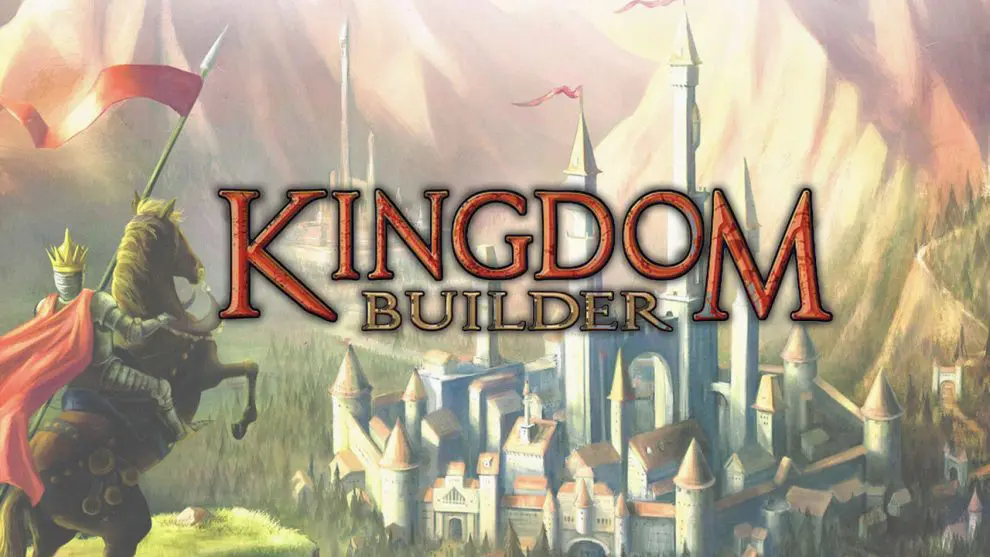
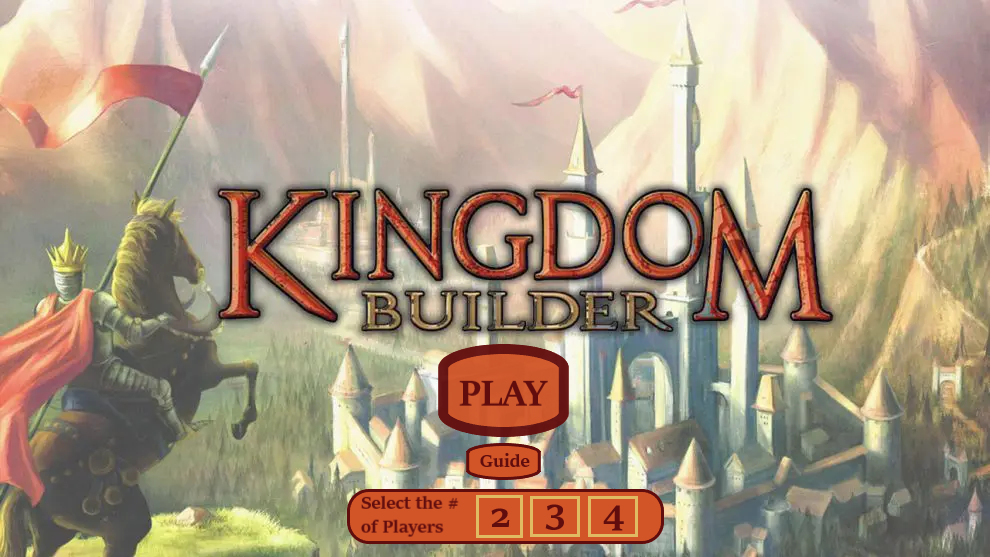
startpanel jbutton information

Changed region(s): [[0.3333, 0.6104, 0.697, 0.9767]]

diff --git a/src/KingdomBuilderPanel.java b/src/KingdomBuilderPanel.java
@@ -16,9 +16,9 @@ import java.awt.Font;
 import java.awt.event.ActionEvent;
 import java.awt.event.ActionListener;
 import javax.swing.JFrame;
-import javax.swing.JTextField;
+import java.awt.Dimension;
 
-public class KingdomBuilderPanel extends JPanel implements MouseListener {
+public class KingdomBuilderPanel extends JPanel implements MouseListener, ActionListener {
     private BufferedImage background, b_play, b_guide_start, mainmenu, b_endgame, b_guide, b_home, b_restart, b1, b2,
             b3, b4, b5, b6, b7, b8,
             citizen, discoverer, farmer, fisherman, hermit, knight, lord, merchant, miner, worker, settleBlue,
@@ -28,7 +28,7 @@ public class KingdomBuilderPanel extends JPanel implements MouseListener {
     public Player p1, p2, p3, p4;
     private int clickedX, clickedY;
     private ArrayList<Hex> chosenHex; // ??
-    private boolean pickHex; // ???
+    private boolean pickHex, startPhase, gamePhase, scoringPhase; // ???
     private JButton playButton, guideButton;
     private JTextField textField;
 
@@ -36,7 +36,7 @@ public class KingdomBuilderPanel extends JPanel implements MouseListener {
         // p1 = new Player(1);
         try {
             // background and buttons
-            mainmenu = ImageIO.read(KingdomBuilderPanel.class.getResource("images/main_menu.png"));
+            mainmenu = ImageIO.read(KingdomBuilderPanel.class.getResource("images/main.png"));
             b_play = ImageIO.read(KingdomBuilderPanel.class.getResource("images/button_template.png"));
             b_guide_start = ImageIO.read(KingdomBuilderPanel.class.getResource("images/guide_template.png"));
             background = ImageIO.read(KingdomBuilderPanel.class.getResource("images/background.jpg"));
@@ -103,27 +103,32 @@ public class KingdomBuilderPanel extends JPanel implements MouseListener {
 
         // jbutton stuff for start panel
         Icon play = new ImageIcon(b_play);
-        playButton = new JButton("PLAY", play);
-        // playButton.addActionListener(this);
+        playButton = new JButton(play);
+        playButton.addActionListener(this);
+        playButton.setBounds(800, 500, 10, 10);
+        playButton.setSize(new Dimension(100, 100));
 
-        // textField = new JTextField();
-        // textField.setPreferredSize(new Dimension(100, 40));
-        // textField.setFont(new Font("Times New Roman", Font.BOLD, 20));
-        // textField.setForeground(new Color(123, 24, 50));
-        // textField.setBackground(Color.black);
-        // textField.setCaretColor(Color.white);
-        // textField.setText("Value");
+        Icon guide = new ImageIcon(b_guide_start);
+        guideButton = new JButton(guide);
+        playButton.addActionListener(this);
 
         this.add(playButton);
-        this.setVisible(true);
+        this.add(guideButton);
+        playButton.setVisible(false);
+        guideButton.setVisible(false);
 
+        startPhase = true;
+        gamePhase = false;
+        scoringPhase = false;
         addMouseListener(this);
     }
 
     public void paint(Graphics g) {
-        // if()
-        playButton.setVisible(true);
-        // g.drawImage();
+        if (startPhase) {
+            g.drawImage(mainmenu, 0, 0, 1600, 900, null);
+            playButton.setVisible(true);
+            guideButton.setVisible(true);
+        }
 
     }
 
@@ -149,6 +154,20 @@ public class KingdomBuilderPanel extends JPanel implements MouseListener {
     }
 
     public void drawSpecialHex(Graphics g) {
+    }
+
+    @Override
+    public void actionPerformed(ActionEvent e) {
+        if (e.getSource() == playButton) {
+            System.out.println("game started");
+            startPhase = false;
+            gamePhase = true;
+        }
+        if (e.getSource() == guideButton) {
+            System.out.println("guide button clicked");
+            // open up pdf of guidebook, have the ability to come back to start screen
+        }
+        repaint();
     }
 
     public void mouseClicked(java.awt.event.MouseEvent e) {
